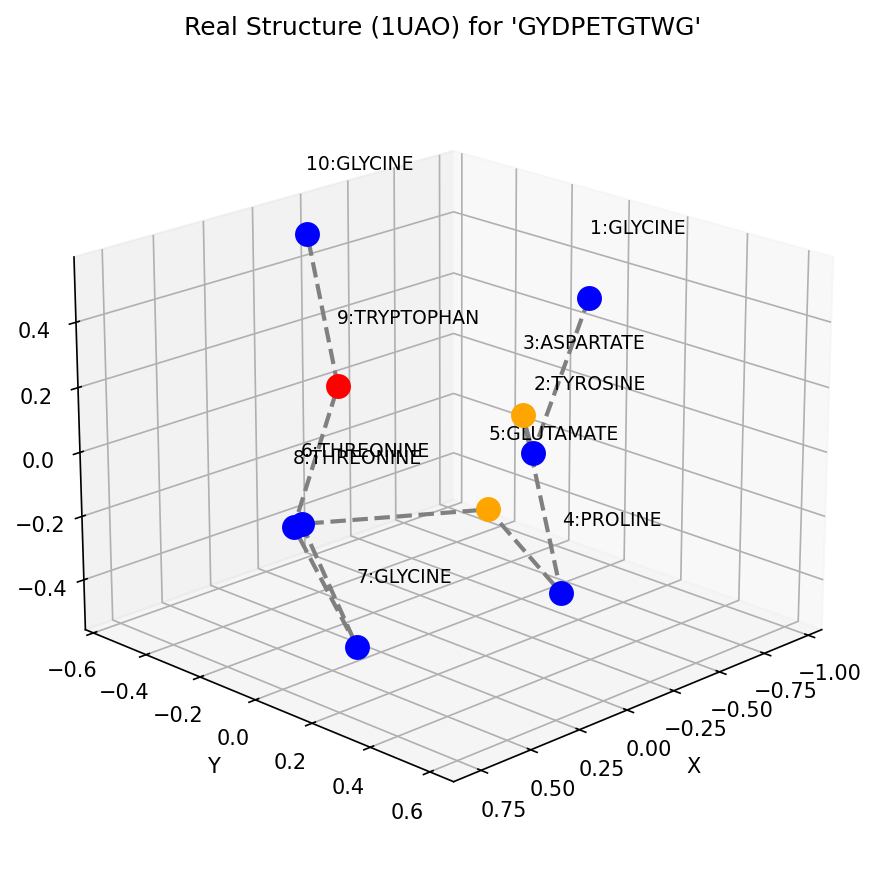
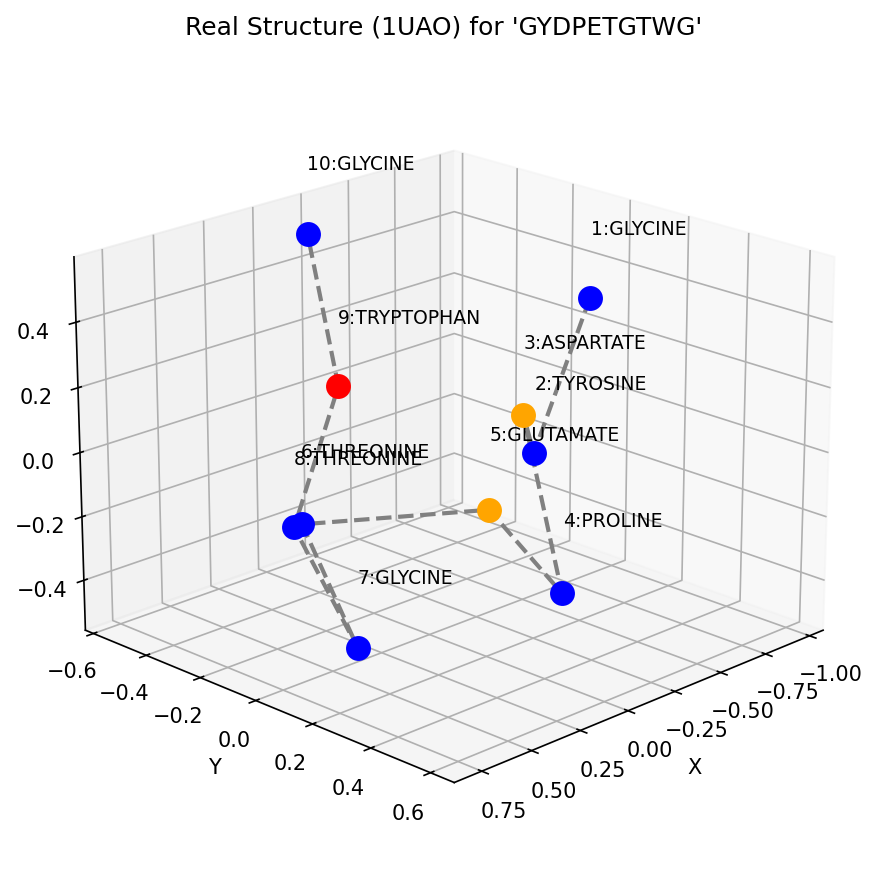
formatting and csv

diff --git a/main.py b/main.py
@@ -1,5 +1,5 @@
+import csv
 import os
-
 import matplotlib.pyplot as plt
 from encoding import bits_to_coords
 from vqe import get_best_structure, run_vqe
@@ -11,6 +11,64 @@ from real_structure import (
     rmsd,
     real_structure_to_bitstring
 )
+
+
+BASE_DIR = os.path.dirname(os.path.abspath(__file__))
+RESULTS_DIR = os.path.join(BASE_DIR, "results")
+CSV_OUTPUT = os.path.join(RESULTS_DIR, "main_results.csv")
+
+SEQUENCE = "GYDPETGTWG"
+PDB_ID = "1UAO"
+CHAIN_ID = "A"
+SEED = 42
+ALPHA = 0.5
+REPETITIONS = 5000
+OPTIMIZATION_STEPS = 200
+LAYERS = 4
+RESTARTS = 6
+FINAL_REPETITIONS = 1000
+
+CSV_FIELDS = (
+    "Sequence",
+    "Residues",
+    "Qubits",
+    "Seed",
+    "Alpha",
+    "Reps",
+    "Opt Steps",
+    "Evals",
+    "Real Energy",
+    "Real Bitstring",
+    "VQE Energy",
+    "VQE Bitstring",
+    "Energy Diff",
+    "RMSD",
+)
+
+
+def save_main_result(filename, result_row):
+    """Append one completed main-program run to a consistently shaped CSV."""
+
+    output_parent = os.path.dirname(filename)
+    if output_parent:
+        os.makedirs(output_parent, exist_ok=True)
+
+    write_header = not os.path.exists(filename) or os.path.getsize(filename) == 0
+
+    if not write_header:
+        with open(filename, "r", encoding="utf-8", newline="") as csv_file:
+            existing_header = next(csv.reader(csv_file), [])
+        if existing_header != list(CSV_FIELDS):
+            raise ValueError(
+                f"Existing CSV header in {filename!r} does not match the "
+                "current main.py result schema."
+            )
+
+    with open(filename, "a", encoding="utf-8", newline="") as csv_file:
+        writer = csv.DictWriter(csv_file, fieldnames=CSV_FIELDS)
+        if write_header:
+            writer.writeheader()
+        writer.writerow(result_row)
 
 
 def plot_protein(coords, sequence, title = None, min_energy=None):
@@ -111,106 +169,61 @@ def plot_real_structure(real_coords, sequence, pdb_id="7OFG"):
 
 if __name__ == "__main__":
 
-    sequence = "GYDPETGTWG"
-    pdb_id = "1UAO"
+    sequence = SEQUENCE
+    pdb_id = PDB_ID
+    n_qubits = 2 * (len(sequence) - 1)
+
     result, history = run_vqe(
         sequence=sequence,
-        alpha=0.5,
-        repetitions=5000,
-        optimization_steps=200
+        alpha=ALPHA,
+        repetitions=REPETITIONS,
+        optimization_steps=OPTIMIZATION_STEPS,
+        seed=SEED,
+        layers=LAYERS,
+        restarts=RESTARTS,
     )
 
     best_bitstring, best_coords, min_energy = get_best_structure(
         result,
         sequence,
-        repetitions=1000
+        repetitions=FINAL_REPETITIONS,
+        seed=SEED,
+        layers=LAYERS,
     )
 
-    real_coords_raw = get_ca_coords(
-    "pdbs/1UAO.pdb",
-    chain_id="A"
-    )
+    pdb_path = os.path.join(BASE_DIR, "pdbs", f"{pdb_id}.pdb")
+    real_coords_raw = get_ca_coords(pdb_path, chain_id=CHAIN_ID)
+    real_bitstring = real_structure_to_bitstring(real_coords_raw)
+    real_fitted_coords = bits_to_coords(real_bitstring)
+    real_energy = path_energy(real_bitstring, sequence)
 
-
-    real_bitstring = real_structure_to_bitstring(
-        real_coords_raw
-    )
-
-    real_fitted_coords = bits_to_coords(
-        real_bitstring
-    )
-
-    real_energy = path_energy(
-        real_bitstring,
-        sequence
-    )
-
+    #Output stuff
     print()
     print("========== REAL STRUCTURE FITTED TO LATTICE ==========")
-
-    print(
-        "Fitted real structure bitstring:",
-        real_bitstring
-    )
-
-    print(
-        "Fitted real structure energy:",
-        real_energy
-    )
-
-    print(
-        "Fitted real structure coordinates:"
-    )
+    print("Fitted real structure bitstring:", real_bitstring)
+    print("Fitted real structure energy:", real_energy)
+    print("Fitted real structure coordinates:")
 
     for i, (res, coord) in enumerate(
-        zip(sequence, real_fitted_coords)
-    ):
-
-        print(
-            f"Residue {i + 1} ({res}): {coord}"
-        )
+        zip(sequence, real_fitted_coords)):
+        print(f"Residue {i + 1} ({res}): {coord}")
 
     print()
     print("=======================================================")
 
-    real_coords = normalize_coords(
-        real_coords_raw
-    )
+    real_coords = normalize_coords(real_coords_raw)
+    best_coords_norm = normalize_coords(best_coords)
+    best_coords_aligned = kabsch_align(best_coords_norm, real_coords)
+    fold_rmsd = rmsd(best_coords_aligned, real_coords)
 
-    best_coords_norm = normalize_coords(
-        best_coords
-    )
-
-    best_coords_aligned = kabsch_align(
-        best_coords_norm,
-        real_coords
-    )
-
-    fold_rmsd = rmsd(
-        best_coords_aligned,
-        real_coords
-    )
     print()
     print("============== ENERGY COMPARISON ==============")
 
-    print(
-    f"VQE optimized structure energy: "
-    f"{min_energy:.6f}"
-    )
+    print(f"VQE optimized structure energy: "f"{min_energy:.6f}")
+    print(f"Fitted real structure energy: "f"{real_energy:.6f}")
+    print(f"Energy difference: "f"{min_energy - real_energy:.6f}")
 
-    print(
-        f"Fitted real structure energy: "
-        f"{real_energy:.6f}"
-    )
-
-    print(
-        f"Energy difference: "
-        f"{min_energy - real_energy:.6f}"
-    )
-
-    print(
-        "==============================================="
-    )
+    print("===============================================")
 
     print("Optimal Bitstring:", best_bitstring)
     print("Lowest Energy:", min_energy)
@@ -218,8 +231,7 @@ if __name__ == "__main__":
     print("3D Coordinates:")
 
     for i, (res, coord) in enumerate(
-        zip(sequence, best_coords)
-    ):
+        zip(sequence, best_coords)):
         print(f"Residue {i + 1} ({res}): {coord}")
 
     plot_protein(
@@ -235,16 +247,38 @@ if __name__ == "__main__":
         pdb_id=pdb_id
     )
 
-    results_dir = os.path.join(os.path.dirname(os.path.abspath(__file__)), "results")
-    os.makedirs(results_dir, exist_ok=True)
-    fold_path = os.path.join(results_dir, f"{sequence}_vqe_fold.png")
-    real_path = os.path.join(results_dir, f"{sequence}_real_{pdb_id}.png")
+    # Model outputs
+    os.makedirs(RESULTS_DIR, exist_ok=True)
+    fold_path = os.path.join(RESULTS_DIR, f"{sequence}_vqe_fold.png")
+    real_path = os.path.join(RESULTS_DIR, f"{sequence}_real_{pdb_id}.png")
     plt.figure(1)
     plt.savefig(fold_path, dpi=150, bbox_inches="tight")
     plt.figure(2)
     plt.savefig(real_path, dpi=150, bbox_inches="tight")
     print(f"Plots saved to: {fold_path}")
     print(f"                {real_path}")
+
+    #CSV Stuff
+    save_main_result(
+        CSV_OUTPUT,
+        {
+            "Sequence": sequence,
+            "Residues": len(sequence),
+            "Qubits": n_qubits,
+            "Seed": SEED,
+            "Alpha": ALPHA,
+            "Reps": REPETITIONS,
+            "Opt Steps": OPTIMIZATION_STEPS,
+            "Evals": len(history),
+            "Real Energy": real_energy,
+            "Real Bitstring": real_bitstring,
+            "VQE Energy": min_energy,
+            "VQE Bitstring": best_bitstring,
+            "Energy Diff": min_energy - real_energy,
+            "RMSD": fold_rmsd,
+        },
+    )
+    print(f"Results saved to: {CSV_OUTPUT}")
 
     if os.environ.get("SHOW_PLOTS", "1") != "0":
         plt.show()